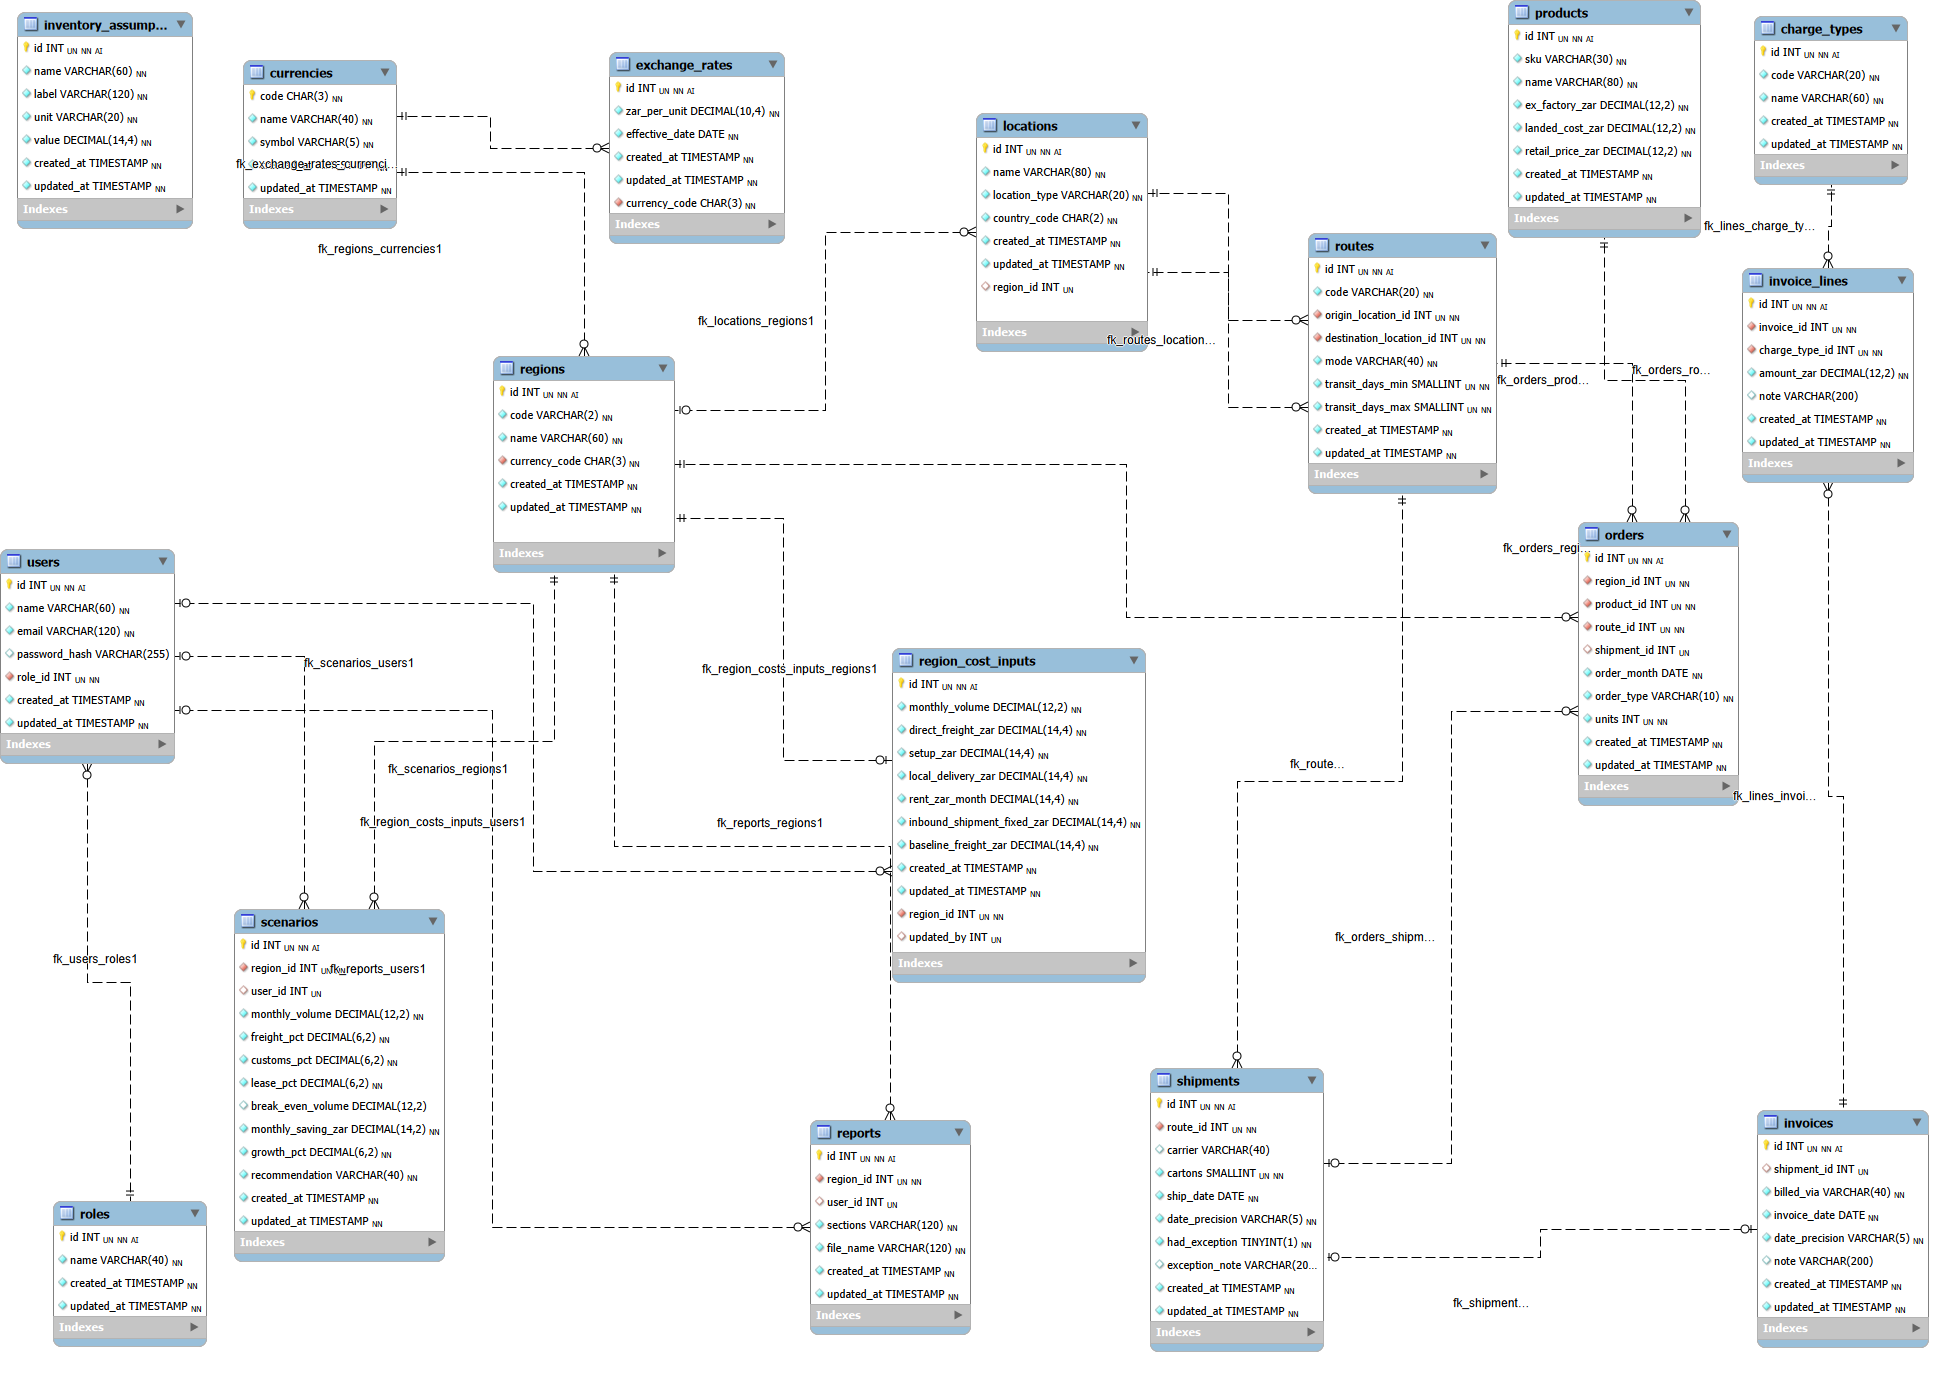
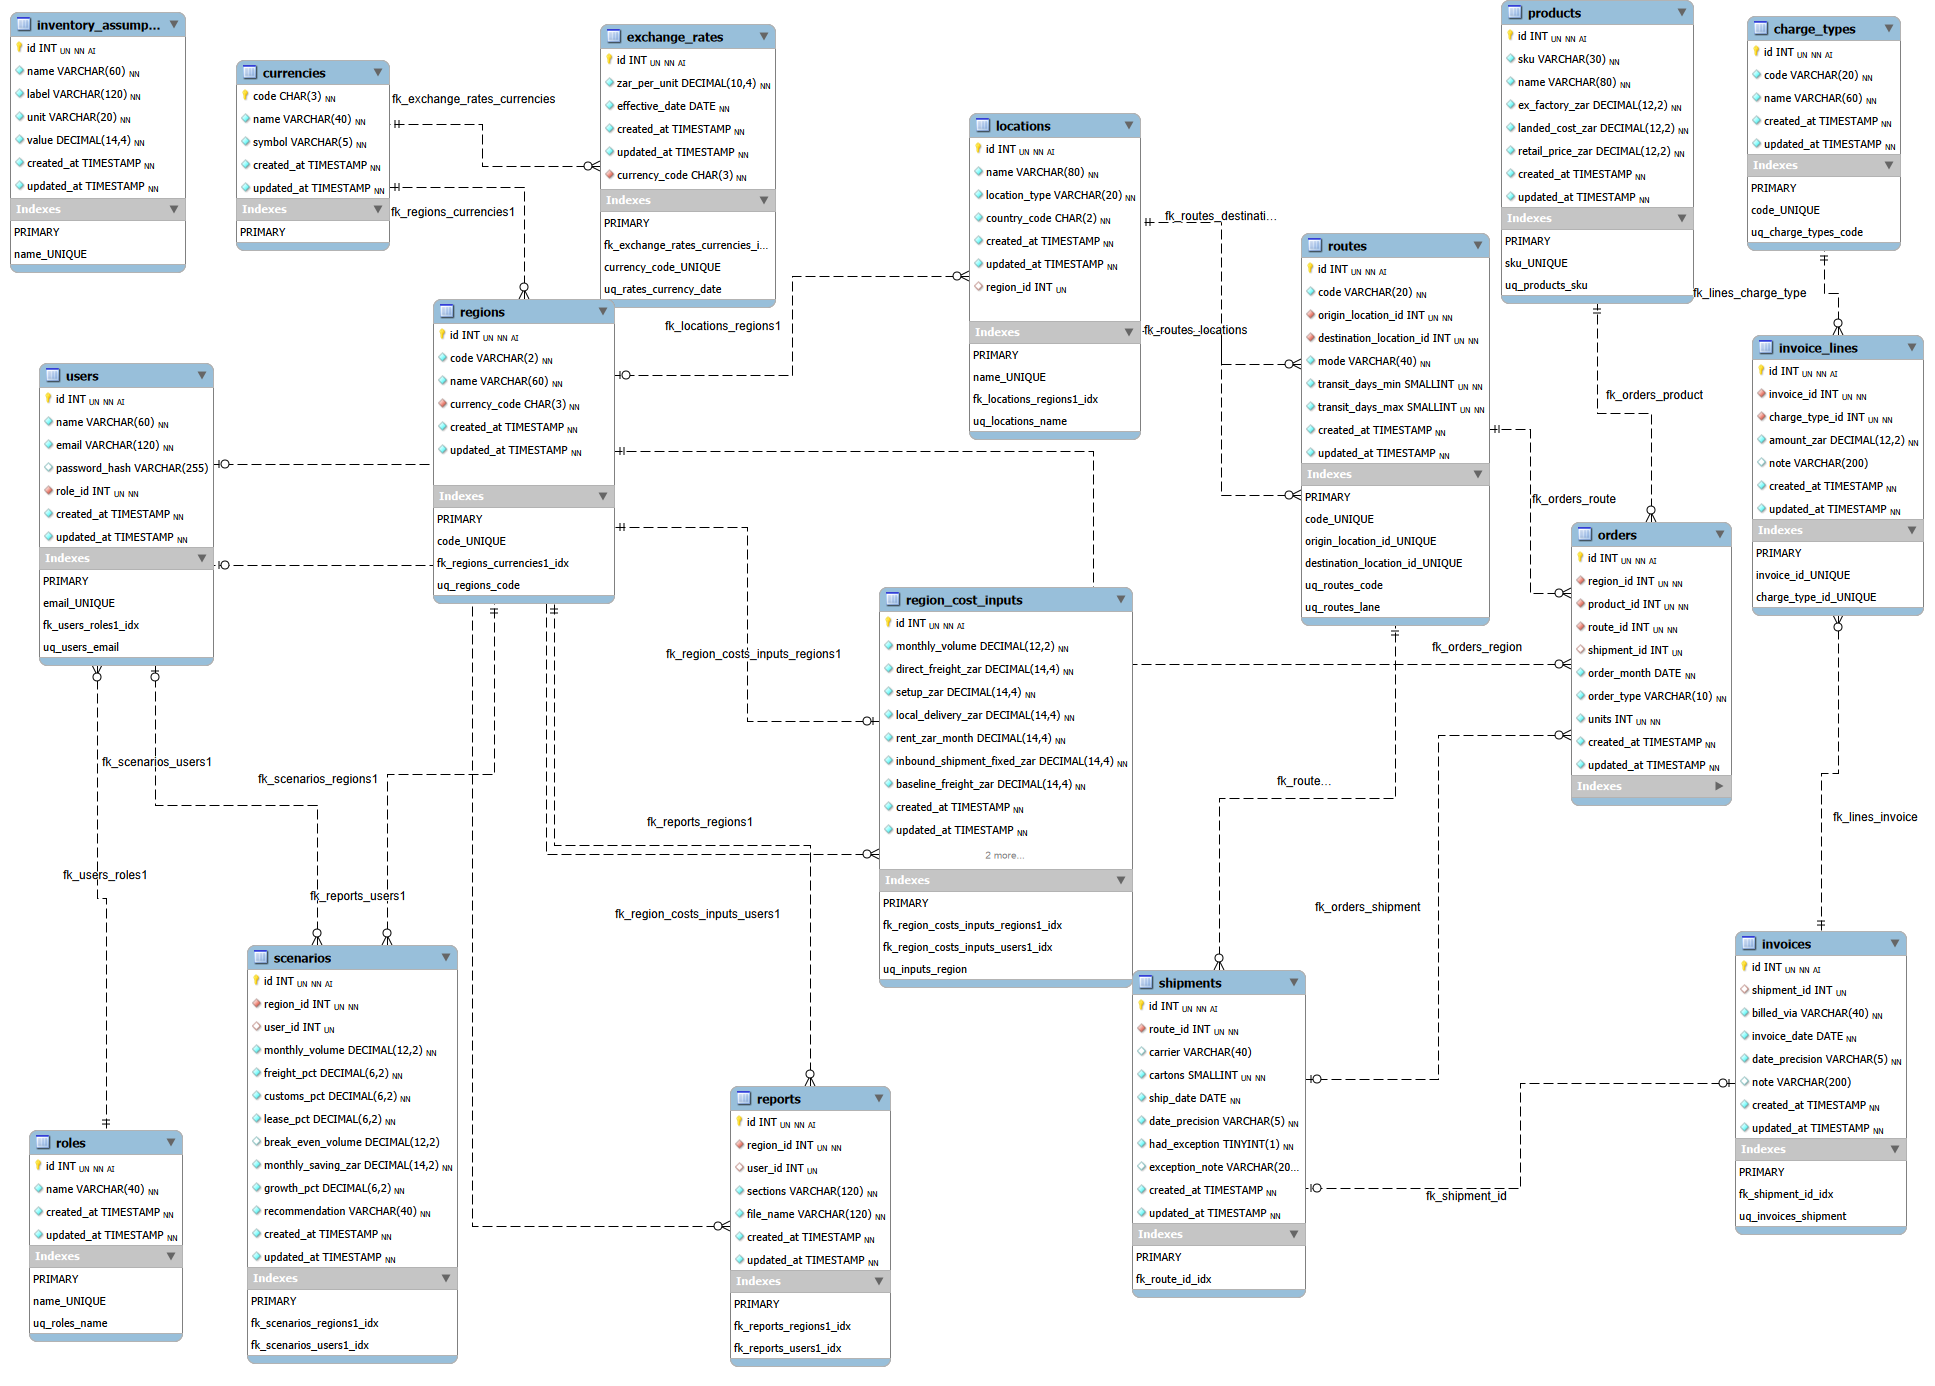
updated the README FILE Added the erd.png with indexes

diff --git a/README.md b/README.md
@@ -305,7 +305,7 @@ Every write in the app already runs in a transaction: if a statement fails, `db.
 - `repository.py`: every SQL query (parameterised)
 - `models/breakeven.py`: standalone break-even model (formulae, units and assumptions are in the module docstring)
 - `database/schema.sql`, `database/seed.sql`: tables and demo data
-- `docs/`: ERD image, the script that draws it from `schema.sql`, and `openapi.json` (the API contract)
+- `docs/`: ERD image created in MySQL workbench, , and `openapi.json` (the API contract)
 - `templates/` and `static/`: Bootstrap frontend
 - `api/`: the REST API blueprint (Step 4)
 - `static/js/api.js`: the browser helpers that call the API, show loading/empty/error states and messages (Step 5)
